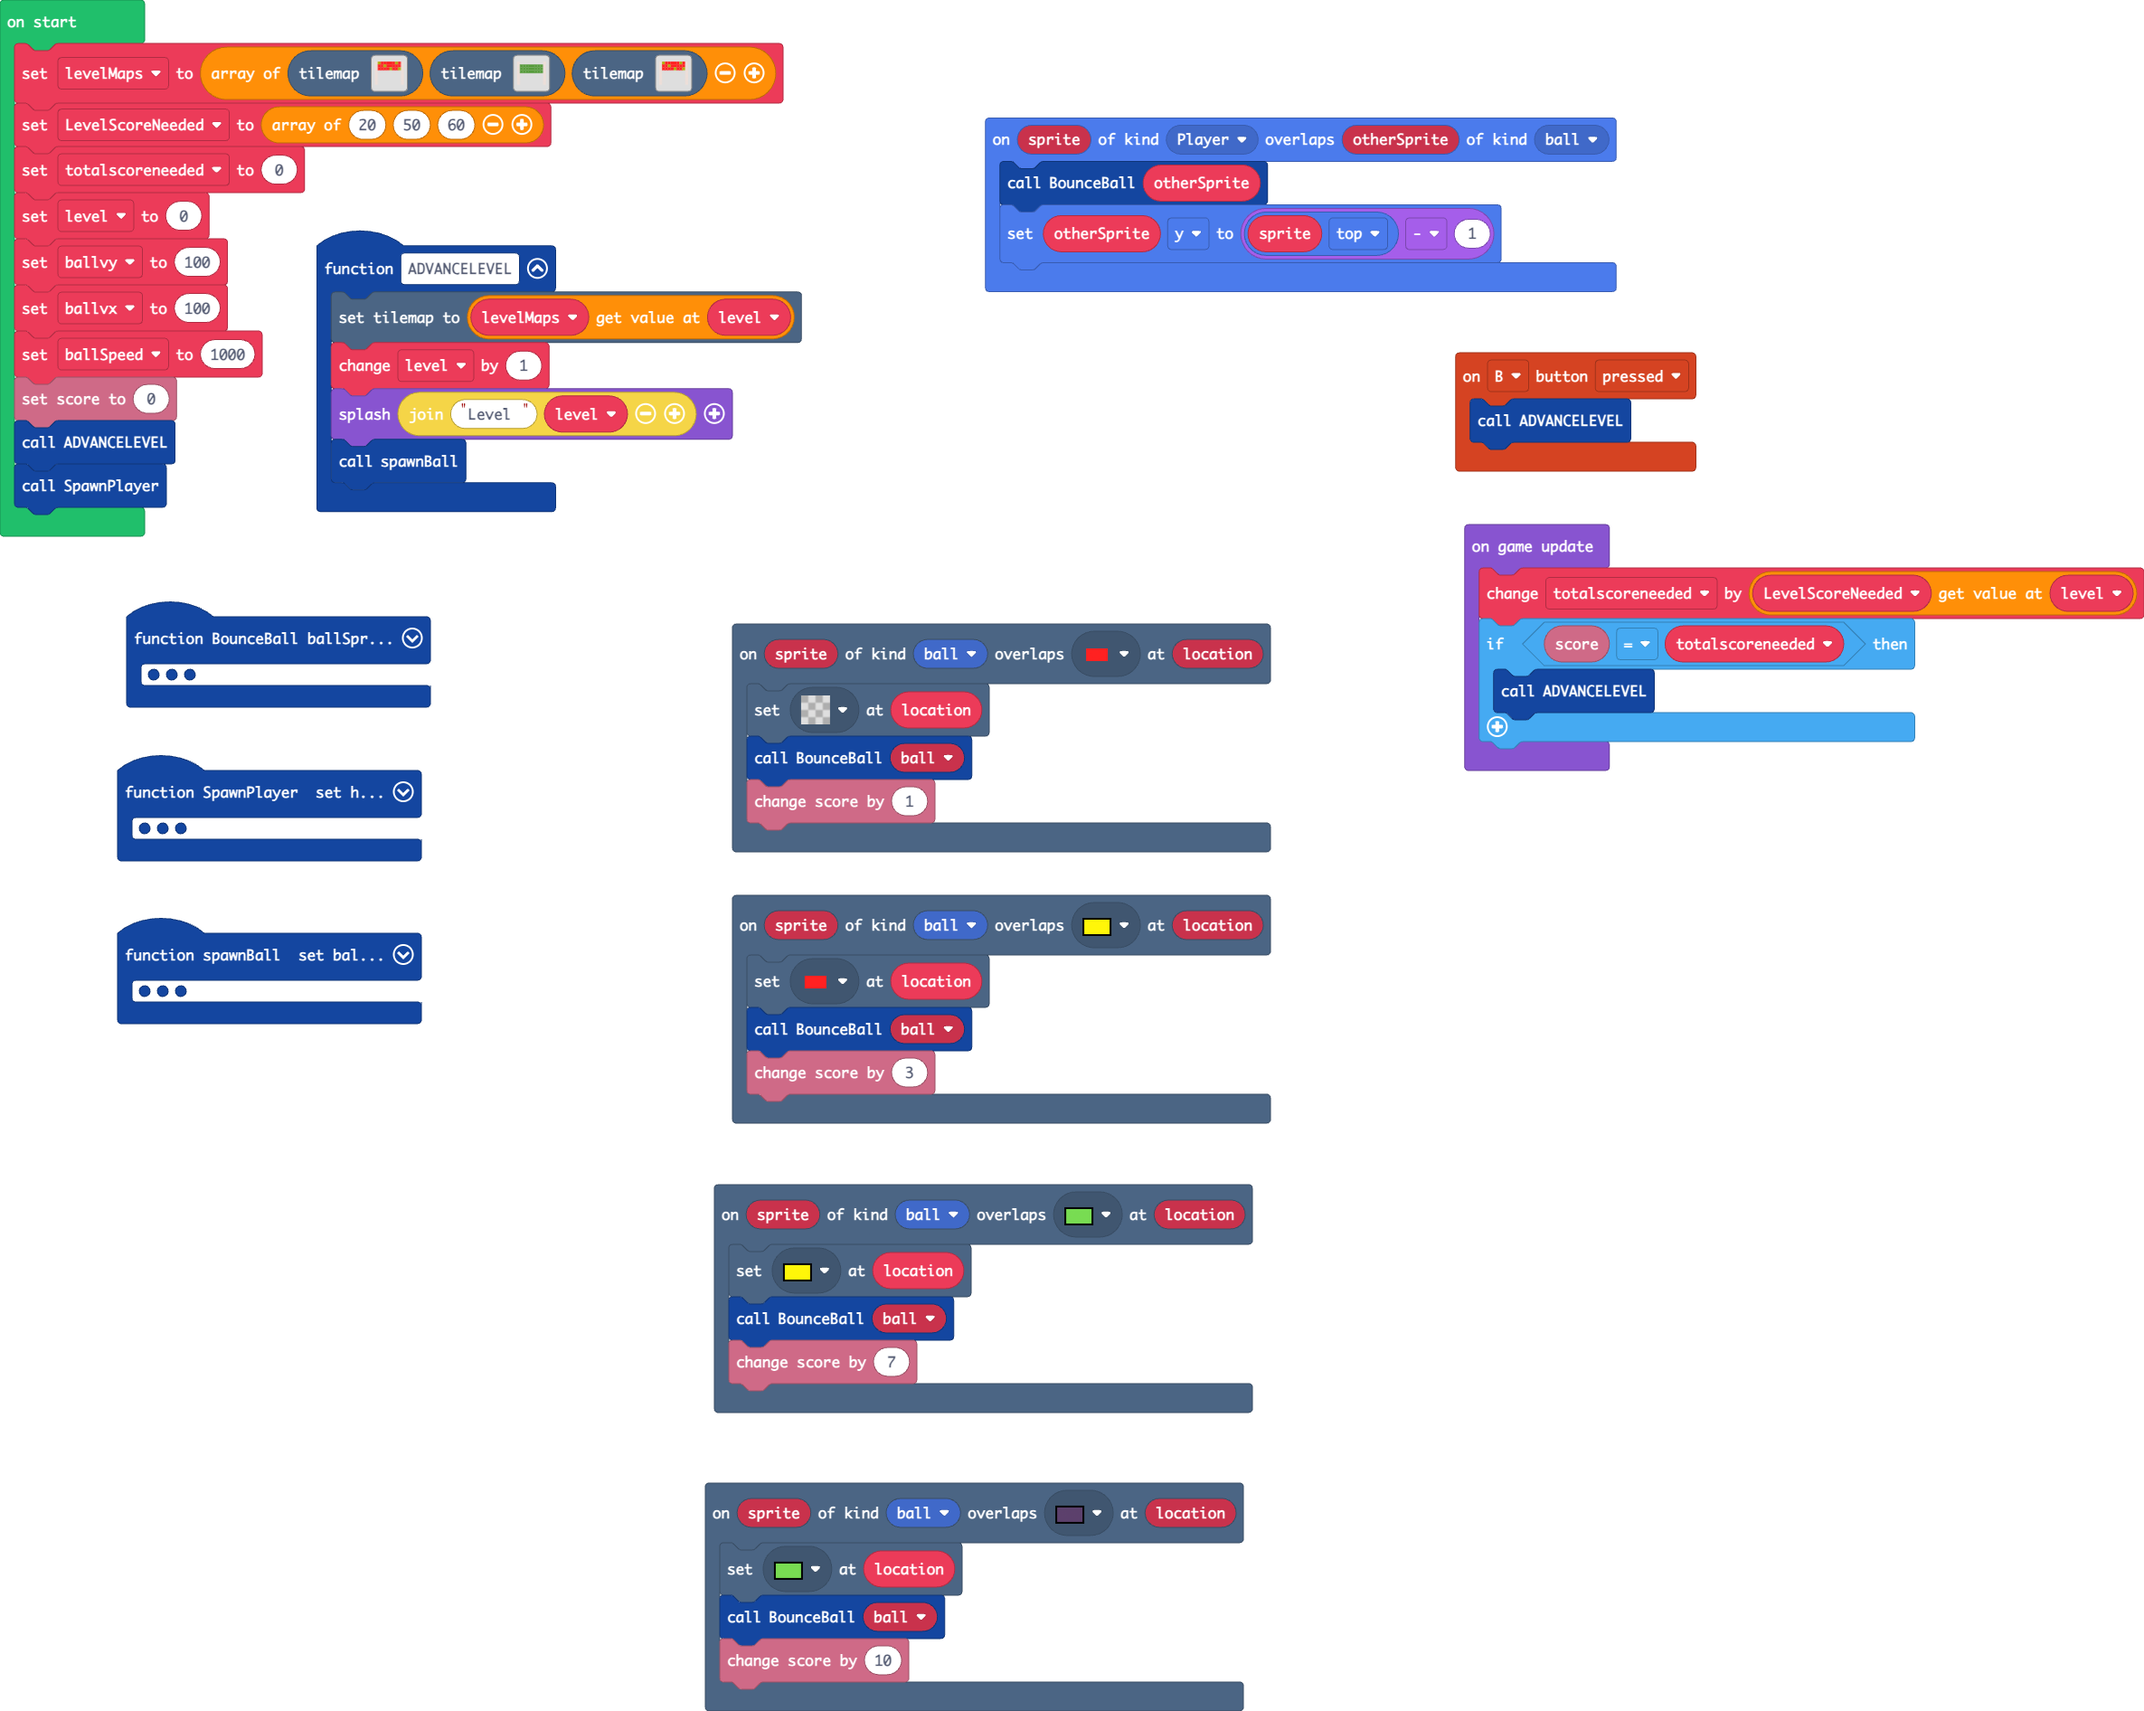
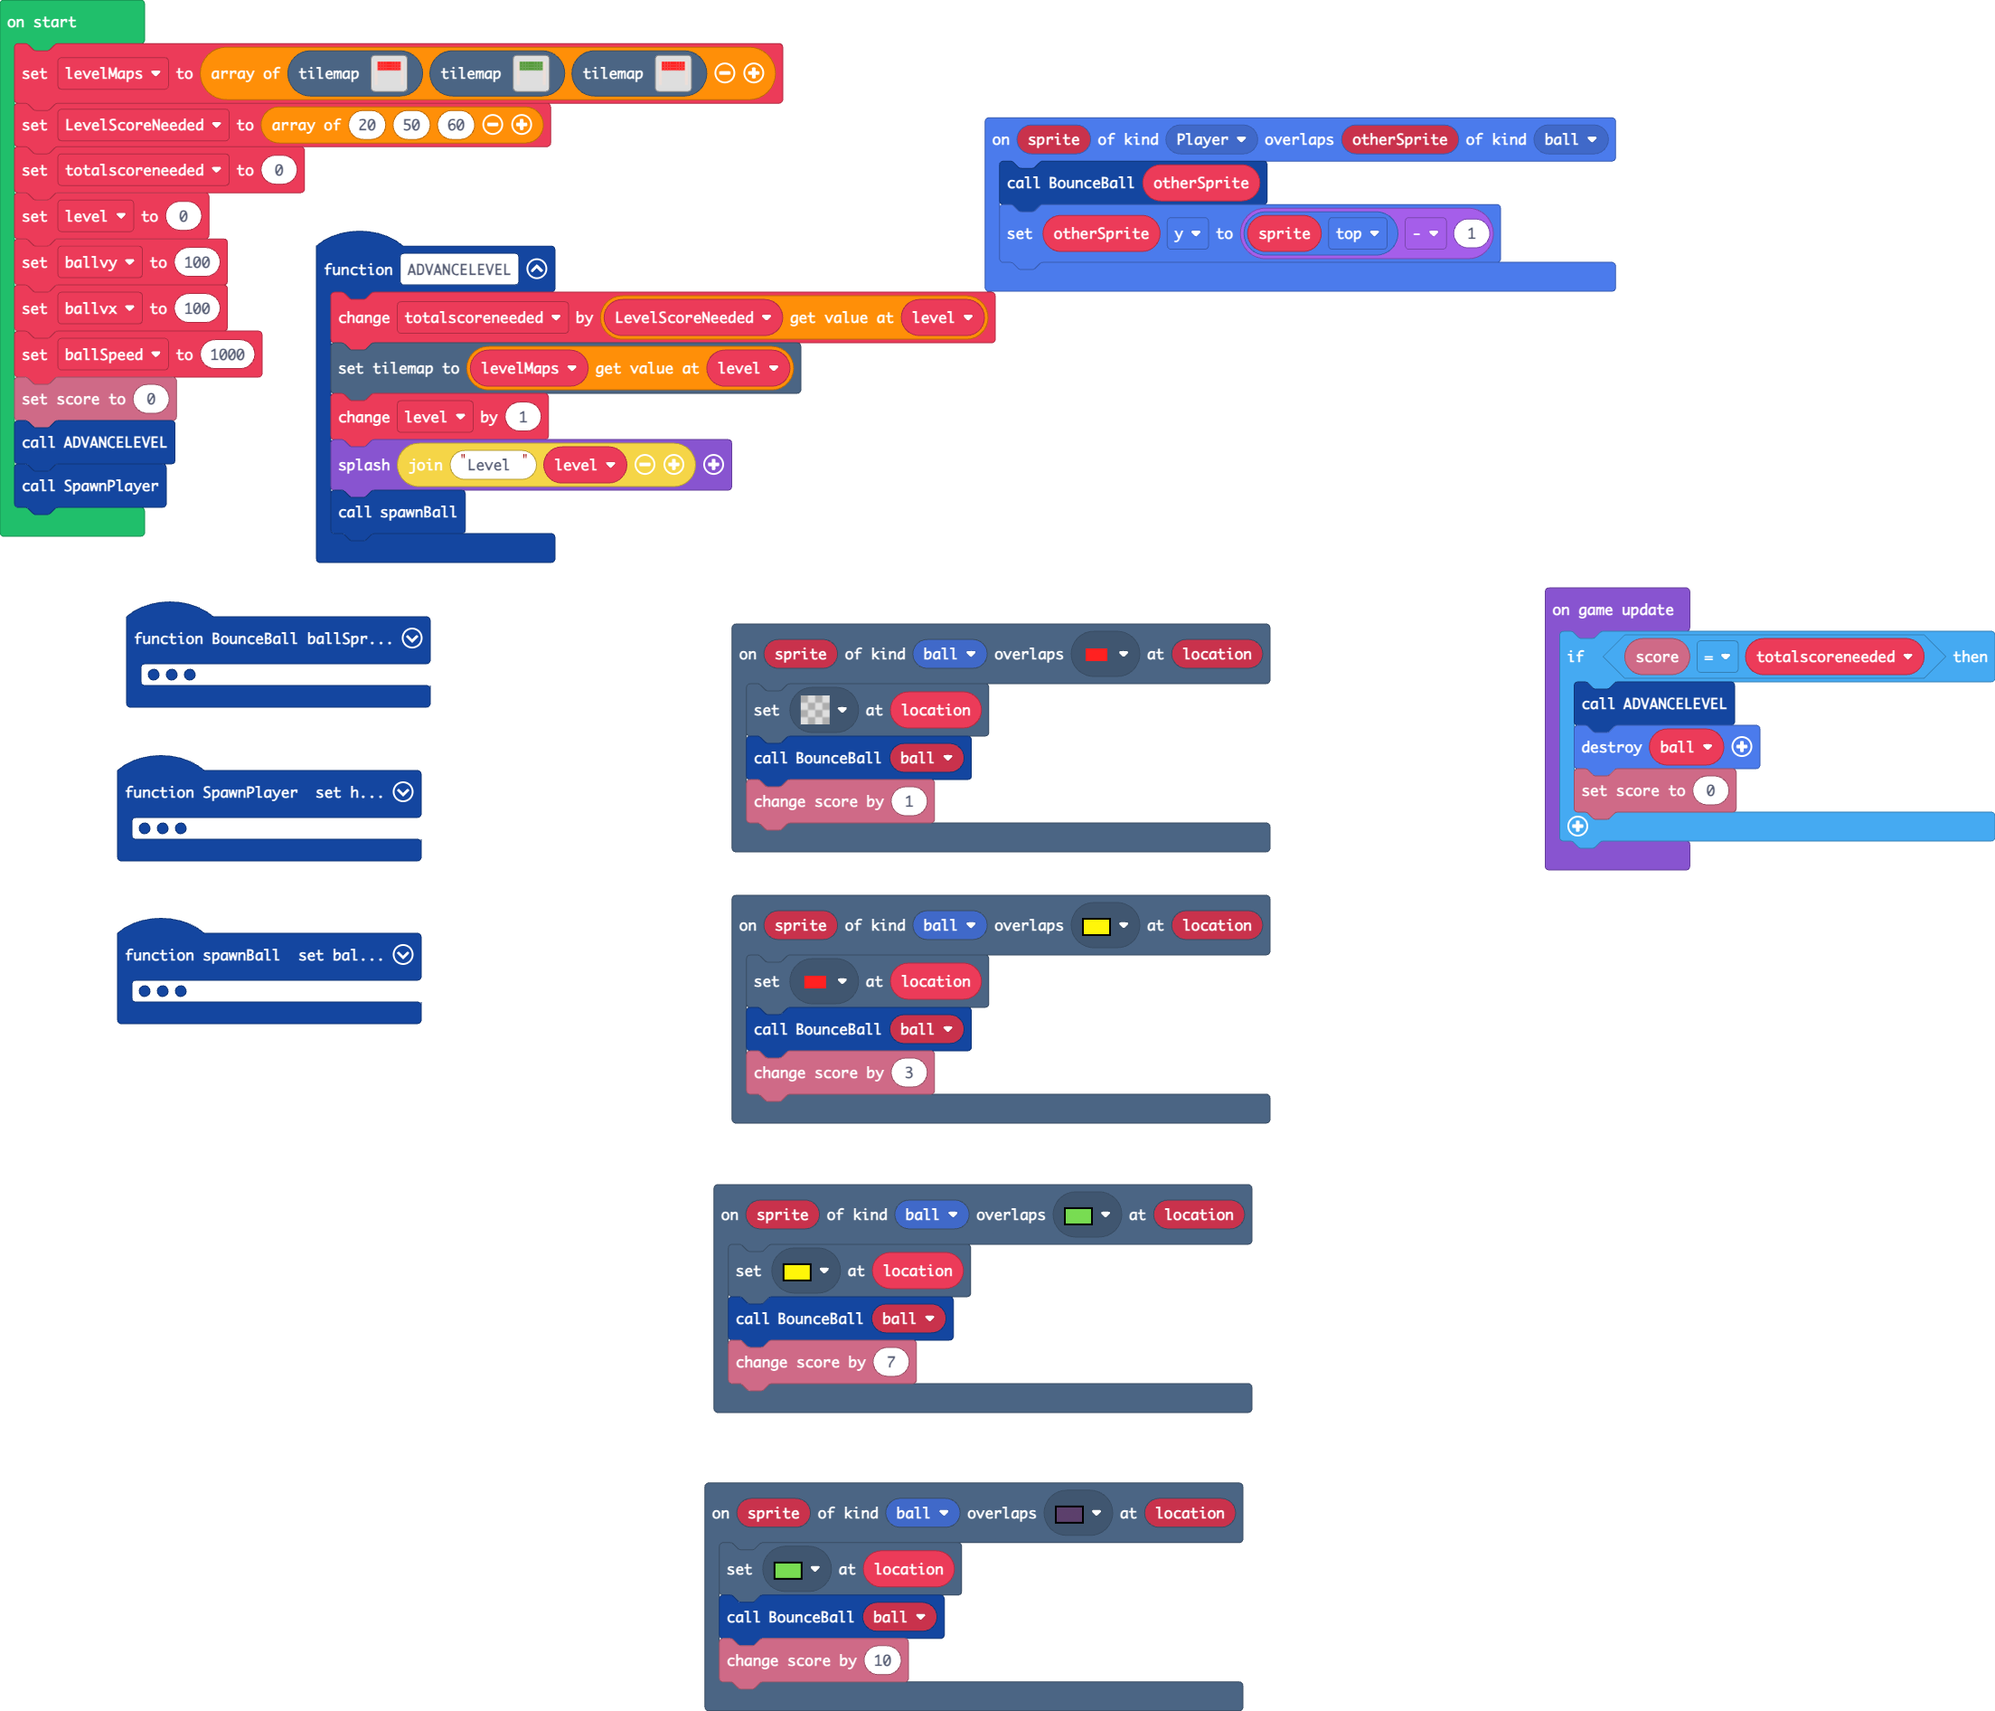
Update main.blocks, main.ts, tilemap.g.jres, tilemap.g.ts

diff --git a/tilemap.g.ts b/tilemap.g.ts
@@ -108,36 +108,6 @@ namespace myTiles {
 . . . . . . . . . . . . . . . . 
 . . . . . . . . . . . . . . . . 
 `, [myTiles.transparency16], TileScale.Sixteen);
-            case "level7":
-            case "level7":return tiles.createTilemap(hex`1000100000000000000000000000000000000000000000000000000000000000000000000000000000000000000000000000000000000000000000000000000000000000000000000000000000000000000000000000000000000000000000000000000000000000000000000000000000000000000000000000000000000000000000000000000000000000000000000000000000000000000000000000000000000000000000000000000000000000000000000000000000000000000000000000000000000000000000000000000000000000000000000000000000000000000000000000000000000000000000000000000000000000000000000000000000000000`, img`
-. . . . . . . . . . . . . . . . 
-. . . . . . . . . . . . . . . . 
-. . . . . . . . . . . . . . . . 
-. . . . . . . . . . . . . . . . 
-. . . . . . . . . . . . . . . . 
-. . . . . . . . . . . . . . . . 
-. . . . . . . . . . . . . . . . 
-. . . . . . . . . . . . . . . . 
-. . . . . . . . . . . . . . . . 
-. . . . . . . . . . . . . . . . 
-. . . . . . . . . . . . . . . . 
-. . . . . . . . . . . . . . . . 
-. . . . . . . . . . . . . . . . 
-. . . . . . . . . . . . . . . . 
-. . . . . . . . . . . . . . . . 
-. . . . . . . . . . . . . . . . 
-`, [myTiles.transparency16], TileScale.Sixteen);
-            case "level9":
[1 lines of base64/hex data omitted]
-. . . . . . . . . . 
-. . . . . . . . . . 
-. . . . . . . . . . 
-. . . . . . . . . . 
-. . . . . . . . . . 
-. . . . . . . . . . 
-. . . . . . . . . . 
-. . . . . . . . . . 
-`, [myTiles.transparency16,myTiles.tile2,sprites.builtin.brick], TileScale.Sixteen);
             case "level10":
             case "level10":return tiles.createTilemap(hex`1000100000000000000000000000000000000000000000000000000000000000000000000000000000000000000000000000000000000000000000000000000000000000000000000000000000000000000000000000000000000000000000000000000000000000000000000000000000000000000000000000000000000000000000000000000000000000000000000000000000000000000000000000000000000000000000000000000000000000000000000000000000000000000000000000000000000000000000000000000000000000000000000000000000000000000000000000000000000000000000000000000000000000000000000000000000000000`, img`
 . . . . . . . . . . . . . . . . 
@@ -195,17 +165,6 @@ namespace myTiles {
 . . . . . . . . . . . . . . . . 
 . . . . . . . . . . . . . . . . 
 `, [myTiles.transparency16], TileScale.Sixteen);
-            case "level2":
[1 lines of base64/hex data omitted]
-2 . . . . . . . . 2 
-2 . . . . . . . . 2 
-2 . . . . . . . . 2 
-2 . . . . . . . . 2 
-2 . . . . . . . . 2 
-2 . . . . . . . . 2 
-2 . . . . . . . . 2 
-2 . . . . . . . . 2 
-`, [myTiles.transparency16,myTiles.tile1,sprites.builtin.brick,myTiles.tile4], TileScale.Sixteen);
             case "level8":
[1 lines of base64/hex data omitted]
 . . . . . . . . . . 
@@ -217,6 +176,39 @@ namespace myTiles {
 . . . . . . . . . . 
 . . . . . . . . . . 
 `, [myTiles.transparency16,myTiles.tile1,sprites.builtin.brick], TileScale.Sixteen);
+            case "level2":
[1 lines of base64/hex data omitted]
+2 . . . . . . . . 2 
+2 . . . . . . . . 2 
+2 . . . . . . . . 2 
+2 . . . . . . . . 2 
+2 . . . . . . . . 2 
+2 . . . . . . . . 2 
+2 . . . . . . . . 2 
+2 . . . . . . . . 2 
+`, [myTiles.transparency16,myTiles.tile1,sprites.builtin.brick], TileScale.Sixteen);
+            case "level9":
[1 lines of base64/hex data omitted]
+2 . . . . . . . . 2 
+2 . . . . . . . . 2 
+2 . . . . . . . . 2 
+2 . . . . . . . . 2 
+2 . . . . . . . . 2 
+2 . . . . . . . . 2 
+2 . . . . . . . . 2 
+2 . . . . . . . . 2 
+`, [myTiles.transparency16,myTiles.tile2,sprites.builtin.brick], TileScale.Sixteen);
+            case "level7":
[1 lines of base64/hex data omitted]
+2 . . . . . . . . 2 
+2 . . . . . . . . 2 
+2 . . . . . . . . 2 
+2 . . . . . . . . 2 
+2 . . . . . . . . 2 
+2 . . . . . . . . 2 
+2 . . . . . . . . 2 
+2 . . . . . . . . 2 
+`, [myTiles.transparency16,myTiles.tile4,myTiles.tile1,myTiles.tile2,myTiles.tile3,sprites.builtin.brick], TileScale.Sixteen);
         }
         return null;
     })

diff --git a/main.ts b/main.ts
@@ -6,9 +6,6 @@ scene.onOverlapTile(SpriteKind.ball, assets.tile`myTile`, function (sprite, loca
     BounceBall(ball)
     info.changeScoreBy(1)
 })
-controller.B.onEvent(ControllerButtonEvent.Pressed, function () {
-    ADVANCELEVEL()
-})
 function spawnBall () {
     ball = sprites.create(img`
         . . . . . . . . . . . . . . . . 
@@ -67,6 +64,7 @@ scene.onOverlapTile(SpriteKind.ball, assets.tile`myTile1`, function (sprite, loc
     info.changeScoreBy(10)
 })
 function ADVANCELEVEL () {
+    totalscoreneeded += LevelScoreNeeded[level]
     tiles.setCurrentTilemap(levelMaps[level])
     level += 1
     game.splash("Level " + level)
@@ -82,9 +80,10 @@ let ballSpeed = 0
 let ballvx = 0
 let ballvy = 0
 let level = 0
+let LevelScoreNeeded: number[] = []
 let levelMaps: tiles.TileMapData[] = []
 levelMaps = [tilemap`level2`, tilemap`level9`, tilemap`level2`]
-let LevelScoreNeeded = [20, 50, 60]
+LevelScoreNeeded = [20, 50, 60]
 let totalscoreneeded = 0
 level = 0
 ballvy = 100
@@ -94,8 +93,9 @@ info.setScore(0)
 ADVANCELEVEL()
 SpawnPlayer()
 game.onUpdate(function () {
-    totalscoreneeded += LevelScoreNeeded[level]
     if (info.score() == totalscoreneeded) {
         ADVANCELEVEL()
+        sprites.destroy(ball)
+        info.setScore(0)
     }
 })
